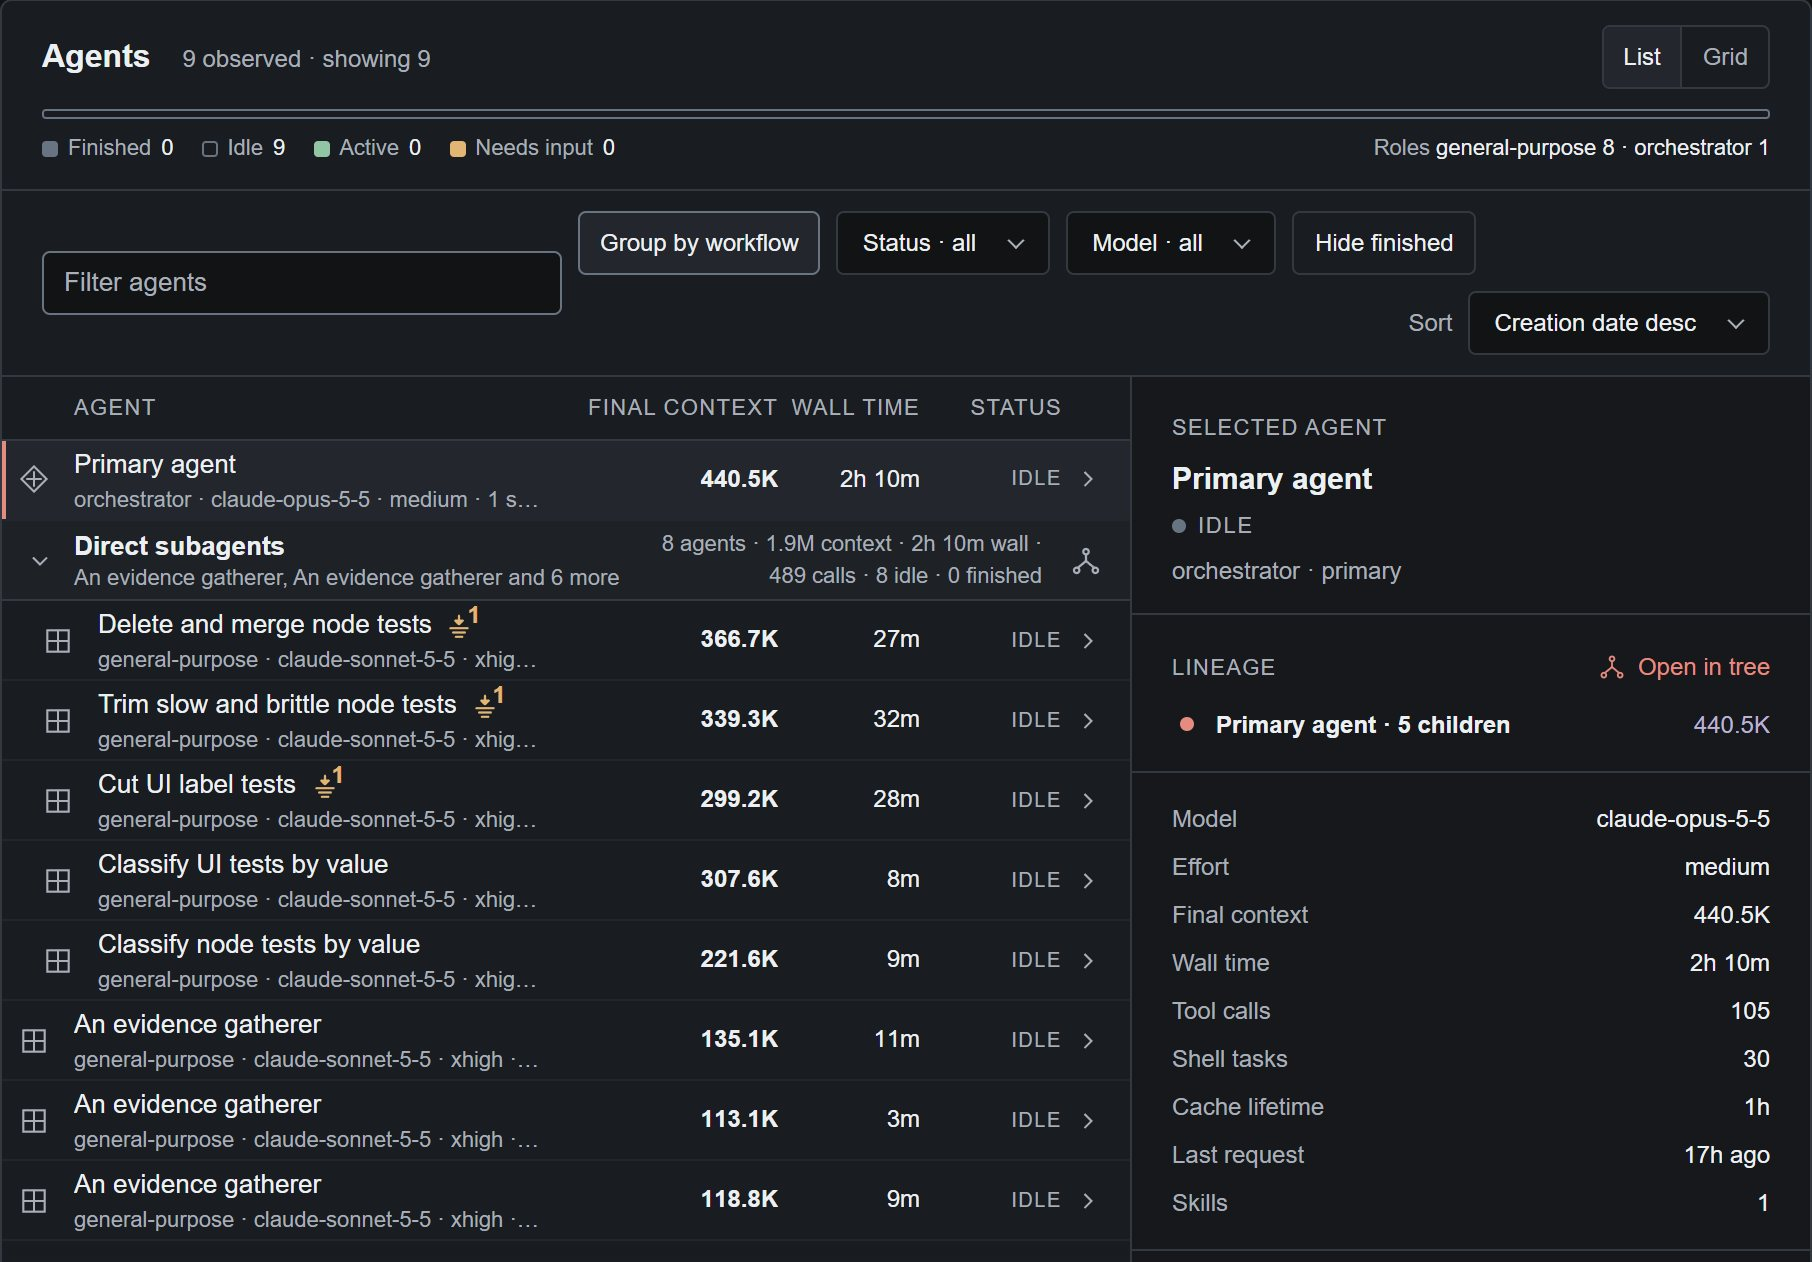
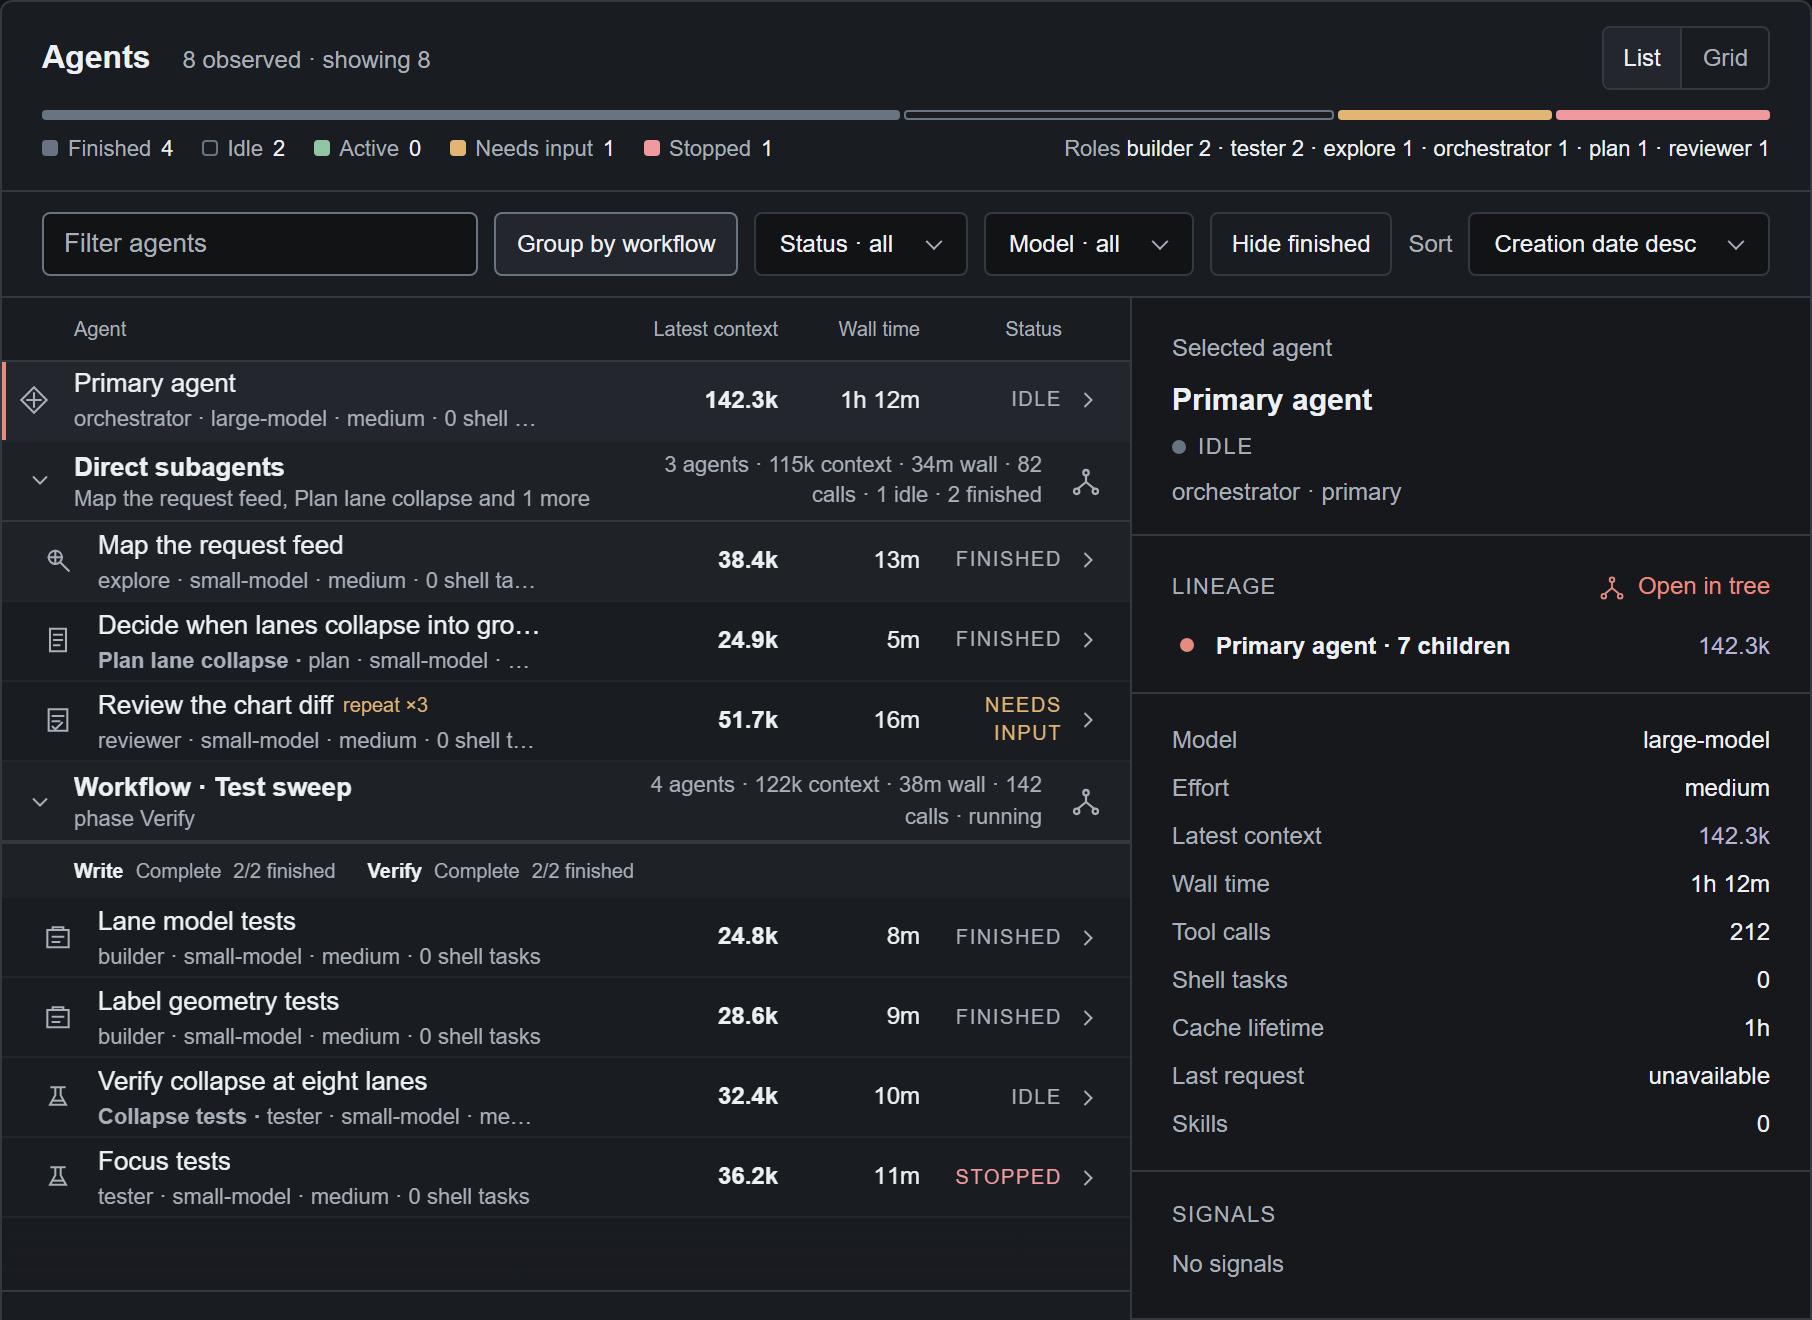
Fix Agents toolbar alignment and refresh introduction screenshot

diff --git a/app/styles/agent-roster.css b/app/styles/agent-roster.css
@@ -25,10 +25,10 @@
 .rosterRoleLegend > span { color: var(--command-ink); }
 .rosterLegends b { color: var(--command-ink); font: 500 11px/1.4 var(--font-data); }
 .rosterStatusLegend i { width: 8px; height: 8px; border-radius: 2px; }
-.rosterFilterBar { display: flex; align-items: center; flex-wrap: wrap; gap: 8px; padding: 10px 20px; border-bottom: 1px solid var(--command-line); }
-.rosterFilterBar input { min-width: 100px; width: 260px; height: 32px; padding: 0 10px; border: 1px solid var(--command-line-strong); border-radius: var(--control-radius); background: var(--command-ground); color: var(--command-ink); font: 400 13px/1.4 var(--font-ui); }
+.rosterFilterBar { display: flex; align-items: flex-start; flex-wrap: wrap; gap: 8px; padding: 10px 20px; border-bottom: 1px solid var(--command-line); }
+.rosterFilterBar input { flex: 1 1 100px; min-width: 100px; height: 32px; padding: 0 10px; border: 1px solid var(--command-line-strong); border-radius: var(--control-radius); background: var(--command-ground); color: var(--command-ink); font: 400 13px/1.4 var(--font-ui); }
 .rosterFilterBar input::placeholder { color: var(--command-muted); }
-.rosterDesktopFilters { display: flex; align-items: center; flex-wrap: wrap; flex: 1; gap: 8px; }
+.rosterDesktopFilters { display: contents; }
 .rosterFilterBar .commandSelect, .rosterFilterSheet .commandSelect { min-height: 32px; font-size: 12px; max-width: 180px; }
 .rosterFilterBar .commandSelectTrigger { min-height: 32px; height: 32px; font-size: 12px; }
 .rosterSort { display: flex; align-items: center; gap: 8px; margin-left: auto; color: var(--command-muted); font-size: 12px; }

diff --git a/docs/internal/development/documentation.md b/docs/internal/development/documentation.md
@@ -64,6 +64,14 @@ and update the guide and images together. Keep the caption accurate about which
 kind of data is shown. These are maintained explanatory screenshots;
 they do not replace the design-system page or preserve a temporary mockup.
 
+`agents-tab.jpg` was recaptured on 2026-10-16 from the working Agents panel in
+Pomegr 0.7.0, after correcting the toolbar's wrapping alignment. It uses the
+existing synthetic agents from `/design-system`, with both groups expanded and
+the primary agent selected. The dark capture uses a 1200 px viewport and 2x
+scale, cropped from the panel header through the inspector's Signals section.
+The JPEG contains only the panel; no session records, credentials, or personal
+paths appear. The introduction caption identifies the illustrative data.
+
 ### Context and tokens screenshot ownership
 
 The [context and tokens](../../public/concepts/context-and-tokens.md) page owns the

diff --git a/docs/public/get-started/introduction.md b/docs/public/get-started/introduction.md
@@ -49,9 +49,9 @@ or group the roster, and switch between **List** and **Grid** to explore the sam
 agents in different views. [Sessions and agents](../using-pomegr/sessions-and-agents.md)
 explains each state and label.
 
-![The Agents tab in dark List view: a primary agent with 440.5K final context, eight subagents, and the selected primary agent's model, context, wall time, and tool calls on the right.](../images/introduction/agents-tab.jpg)
+![The Agents panel in dark List view, with aligned filters, expanded agent groups, and the selected primary agent's details on the right.](../images/introduction/agents-tab.jpg)
 
-*The same session's Agents tab, with the primary agent selected.*
+*Illustrative sample data in the working Agents panel, with the primary agent selected.*
 
 ## Look inside a request
 

diff --git a/docs/internal/design/agents.md b/docs/internal/design/agents.md
@@ -40,6 +40,7 @@ Agent activity shows normalized roles and evidence with the existing privacy bou
 ### Controls
 
 - The controls are workflow grouping, search, status and model filters, Hide finished, and within-group sorting.
+- Search, filters, and Sort share one wrapping row, with the search field taking the remaining width.
 
 ### Intermediate widths
 
